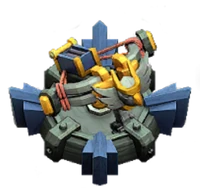
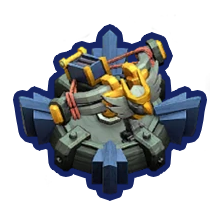
Inferno tower images

diff --git a/scripts/script.js b/scripts/script.js
@@ -32,7 +32,8 @@ docReady(() => {
 	const xbTextEl = document.getElementById("xbText");
 	const baseLink = document.getElementById("baseLink");
 	const spellTower = document.getElementById("spelltower");
-  const itTextEl = document.getElementById("itText");
+	const itTextEl = document.getElementById("itText");
+	const infernoTower = document.getElementById("infernotower");
 
 	// Load months json
 	fetch(`${BASE_URL}/months.json`)
@@ -134,6 +135,8 @@ docReady(() => {
 		const month = months[monthIndex];
 		const entry = bases[baseIndex];
 
+		console.log(entry.it);
+
 		if (entry.st.includes("Rage") && entry.st.includes("Poison")) {
 			spellTower.src = `images/STRP.png`;
 		} else if (entry.st.includes("Rage") && entry.st.includes("Invis")) {
@@ -146,6 +149,14 @@ docReady(() => {
 			spellTower.src = `images/STP.png`;
 		} else if (entry.st.includes("Invis")) {
 			spellTower.src = `images/STI.png`;
+		}
+
+		if (entry.it.includes("Multi") && entry.it.includes("Single")) {
+			infernoTower.src = `images/ITSM.png`;
+		} else if (entry.it.includes("Multi")) {
+			infernoTower.src = `images/ITM.png`;
+		} else if (entry.it.includes("Single")) {
+			infernoTower.src = `images/ITS.png`;
 		}
 
 		currentBaseLabel.textContent = `Base ${baseIndex + 1}`;
